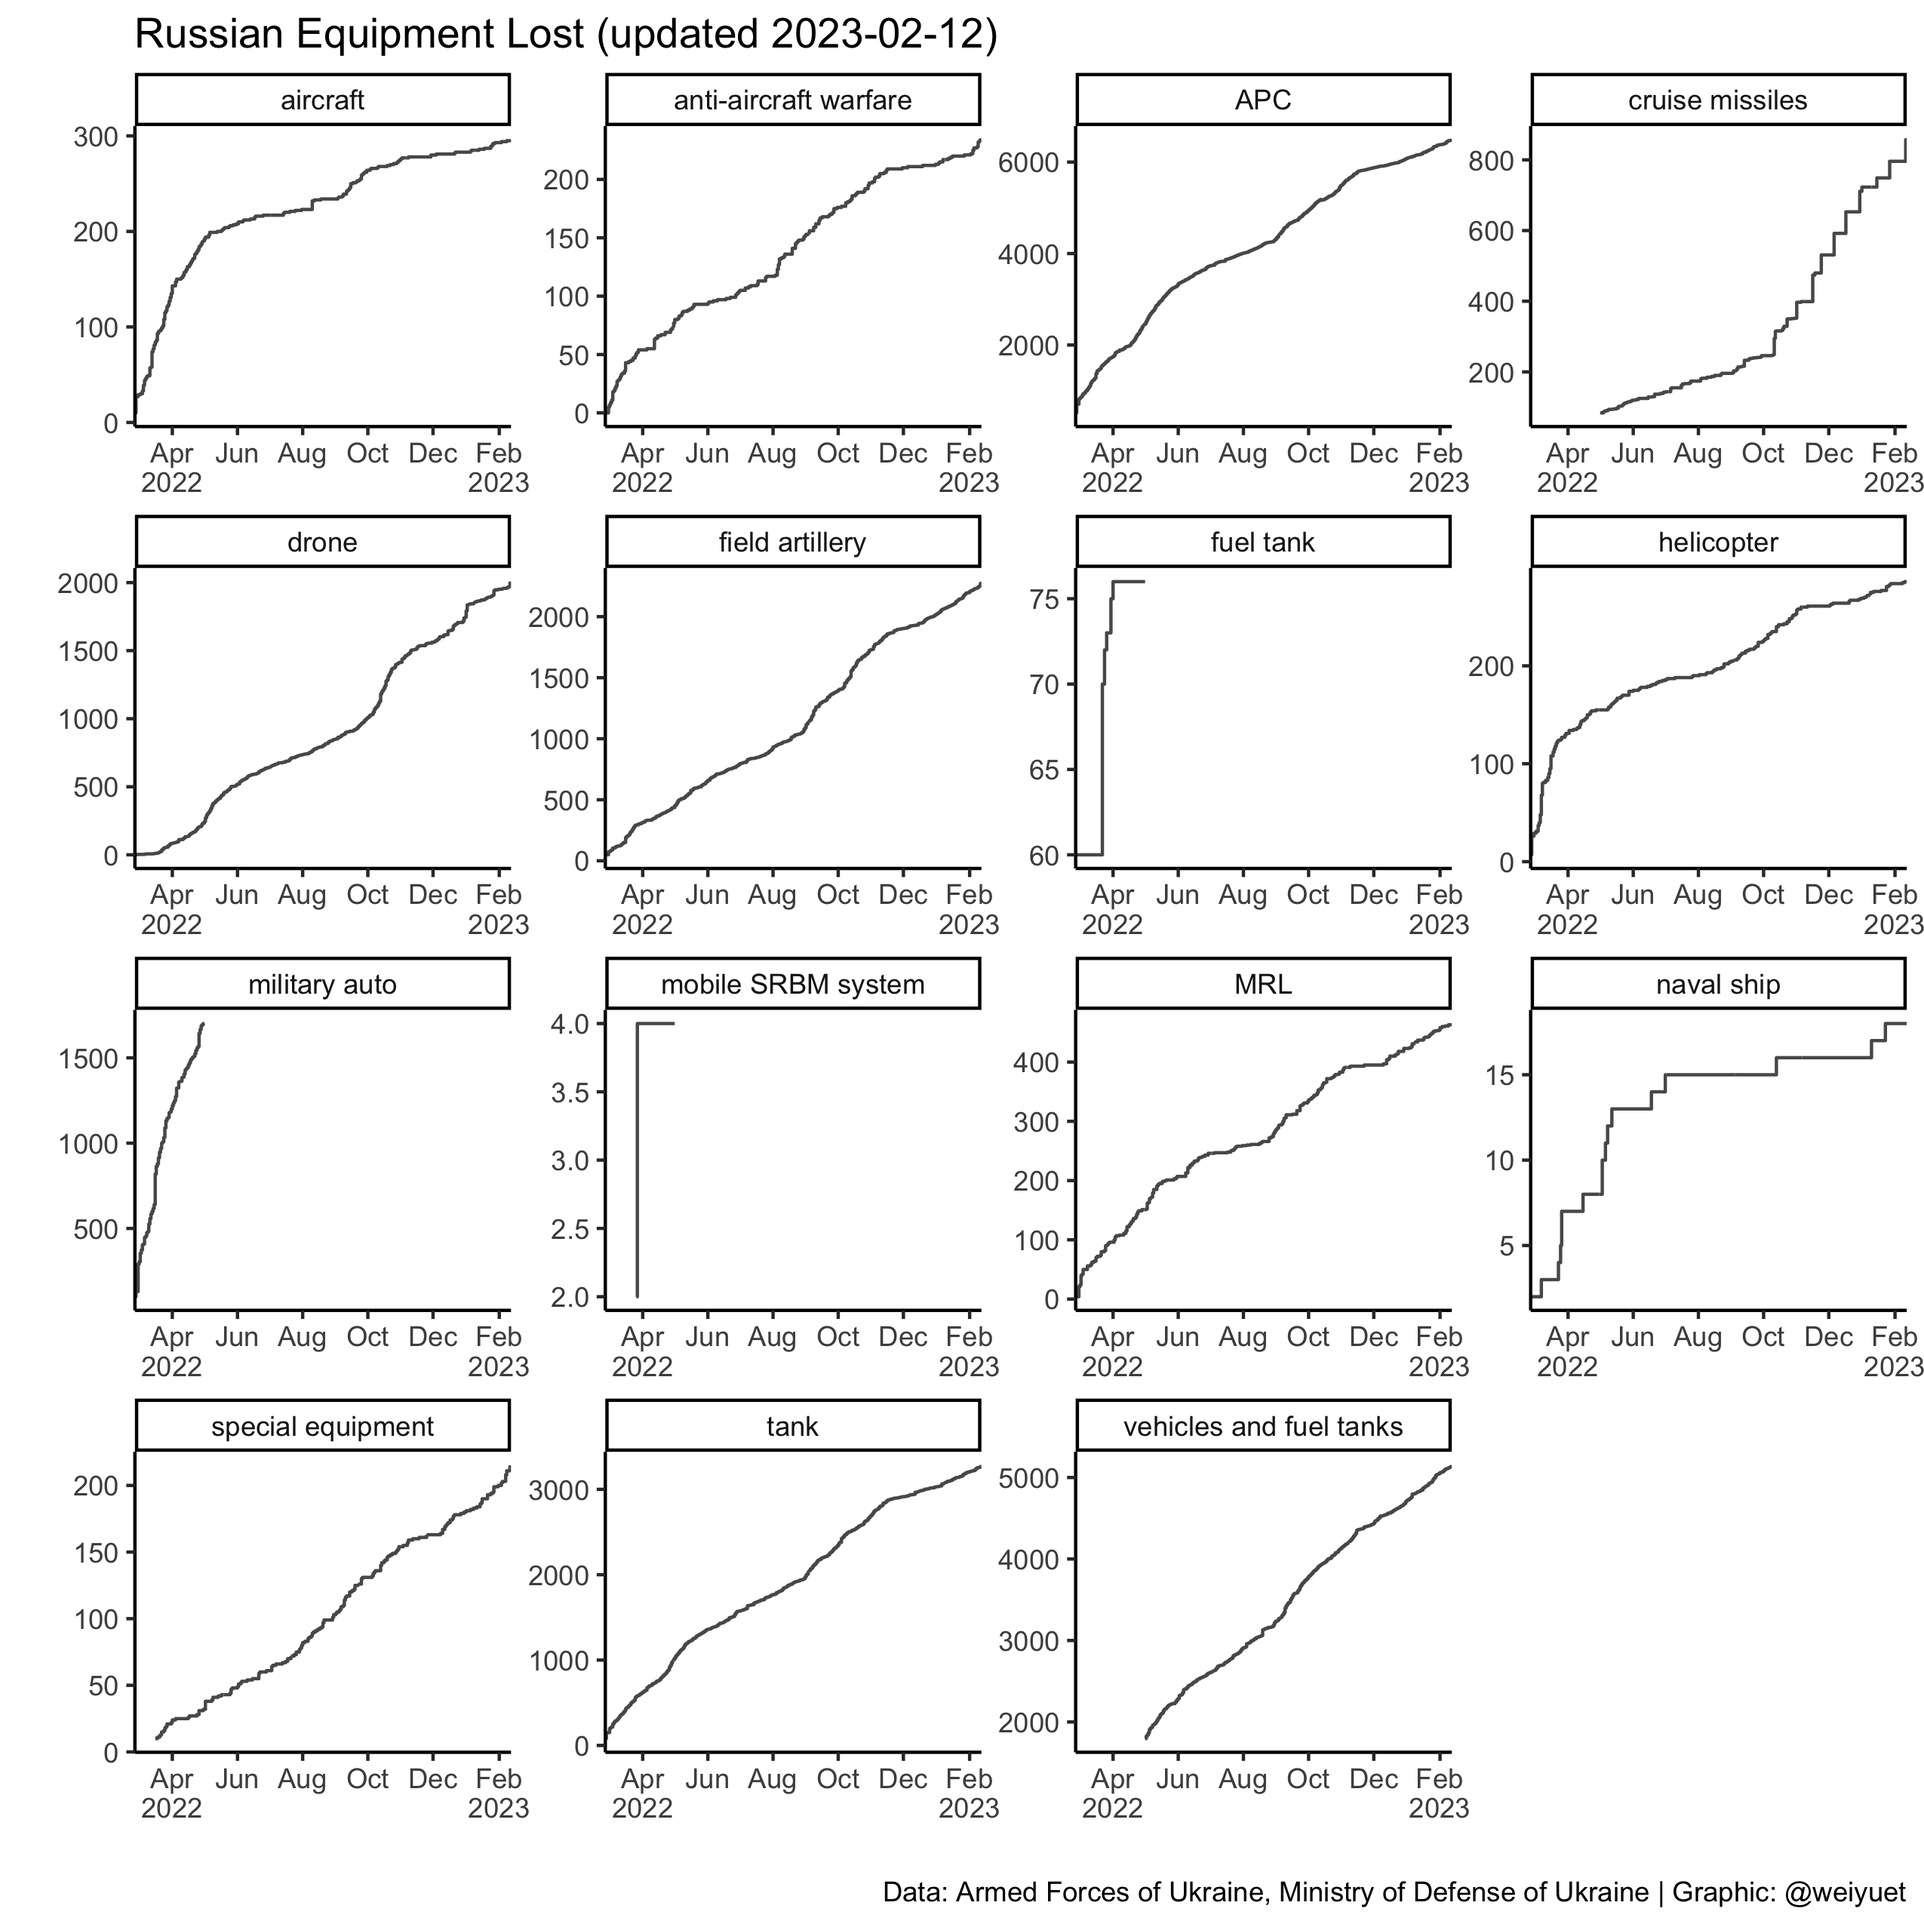
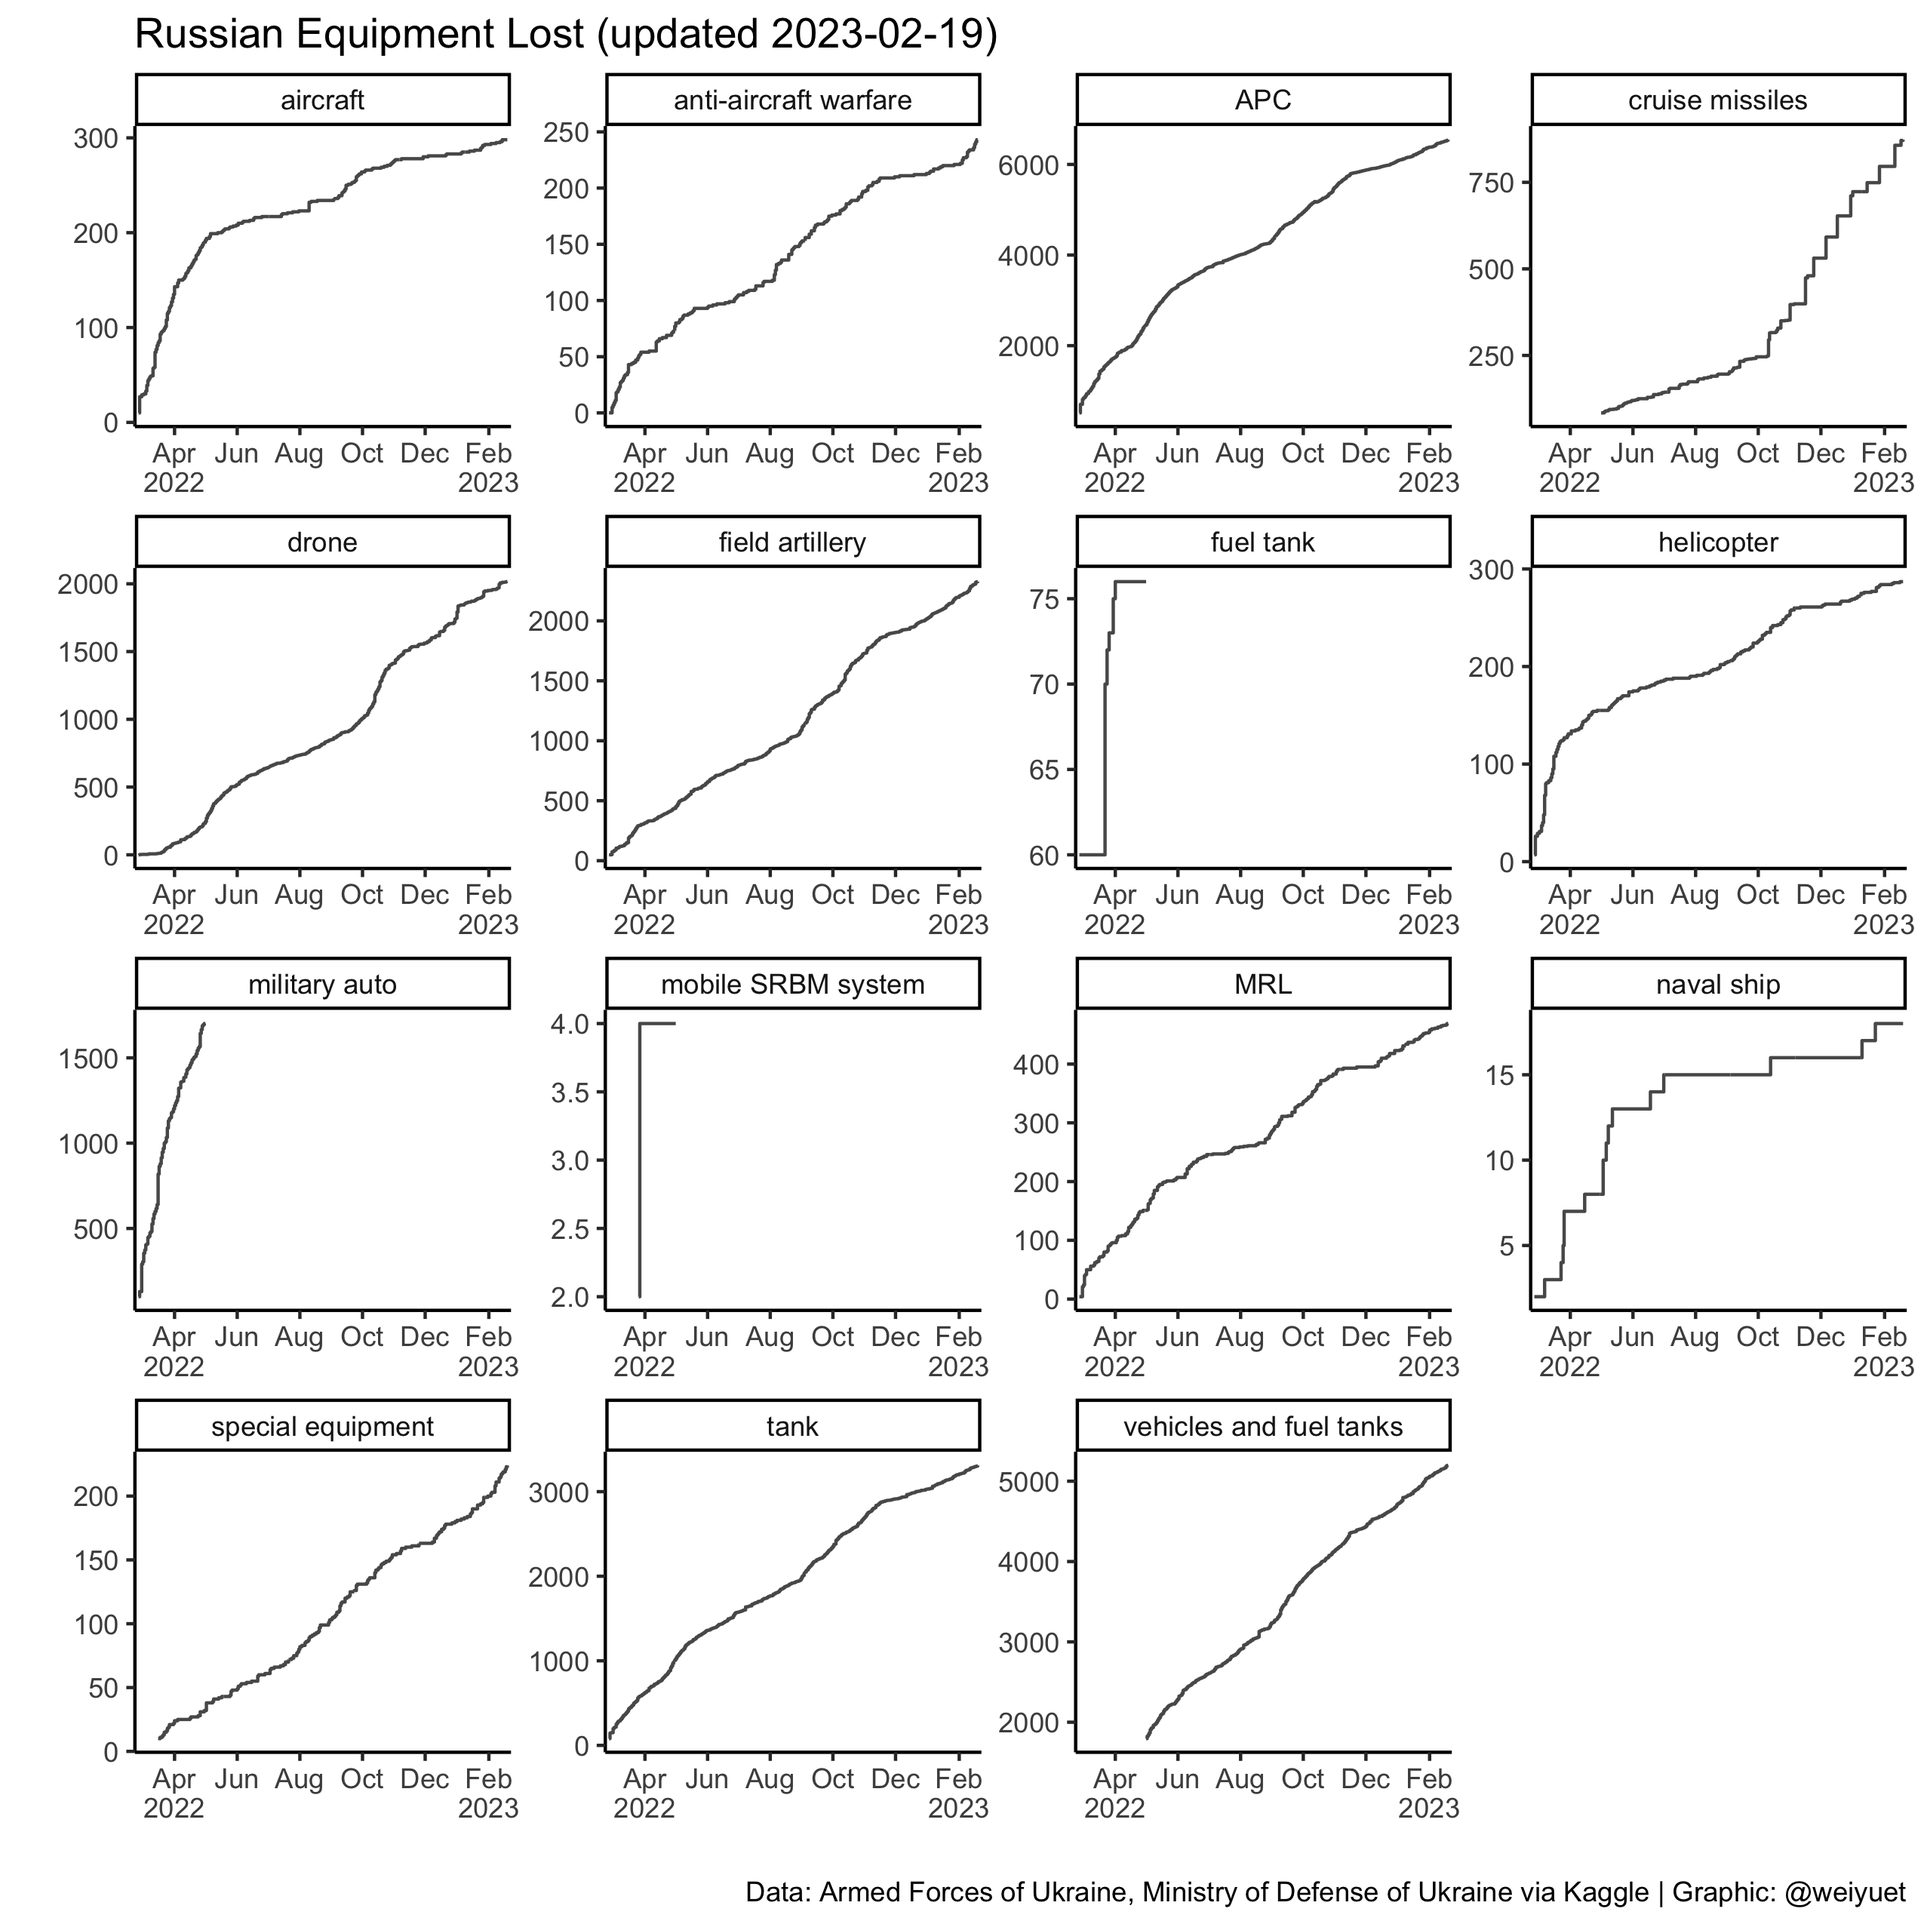
Updated 19 February

diff --git a/README.md b/README.md
@@ -6,7 +6,7 @@ Wong Wei Yuet 2022-05-26
 
   - War casualty data updated daily from [`Petro Ivanyuk's Kaggle`](https://www.kaggle.com/datasets/piterfm/2022-ukraine-russian-war). All data is official and put together by `Petro`
 
-Updated: 2023-02-14
+Updated: 2023-02-19
 
 ## Summary of Conflict
 
